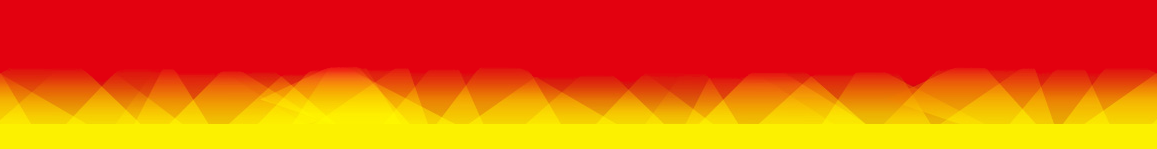
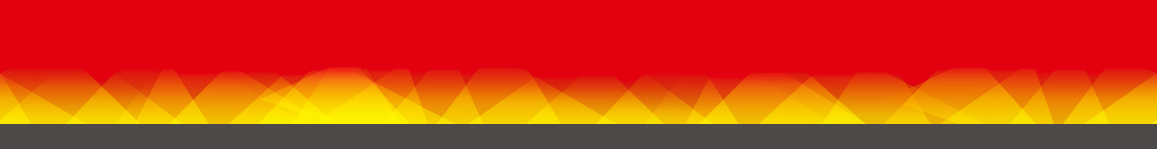
Change header graphic and stylesheet

Changed region(s): [[0.0, 0.8322, 1.0, 1.0]]

diff --git a/stylesheets/application.css b/stylesheets/application.css
@@ -9,7 +9,7 @@
 }
 
 #main-menu li a {
-    color: #6c6c6c;
+    color: #f3f3f3;
 }
 
 #h_logo {
